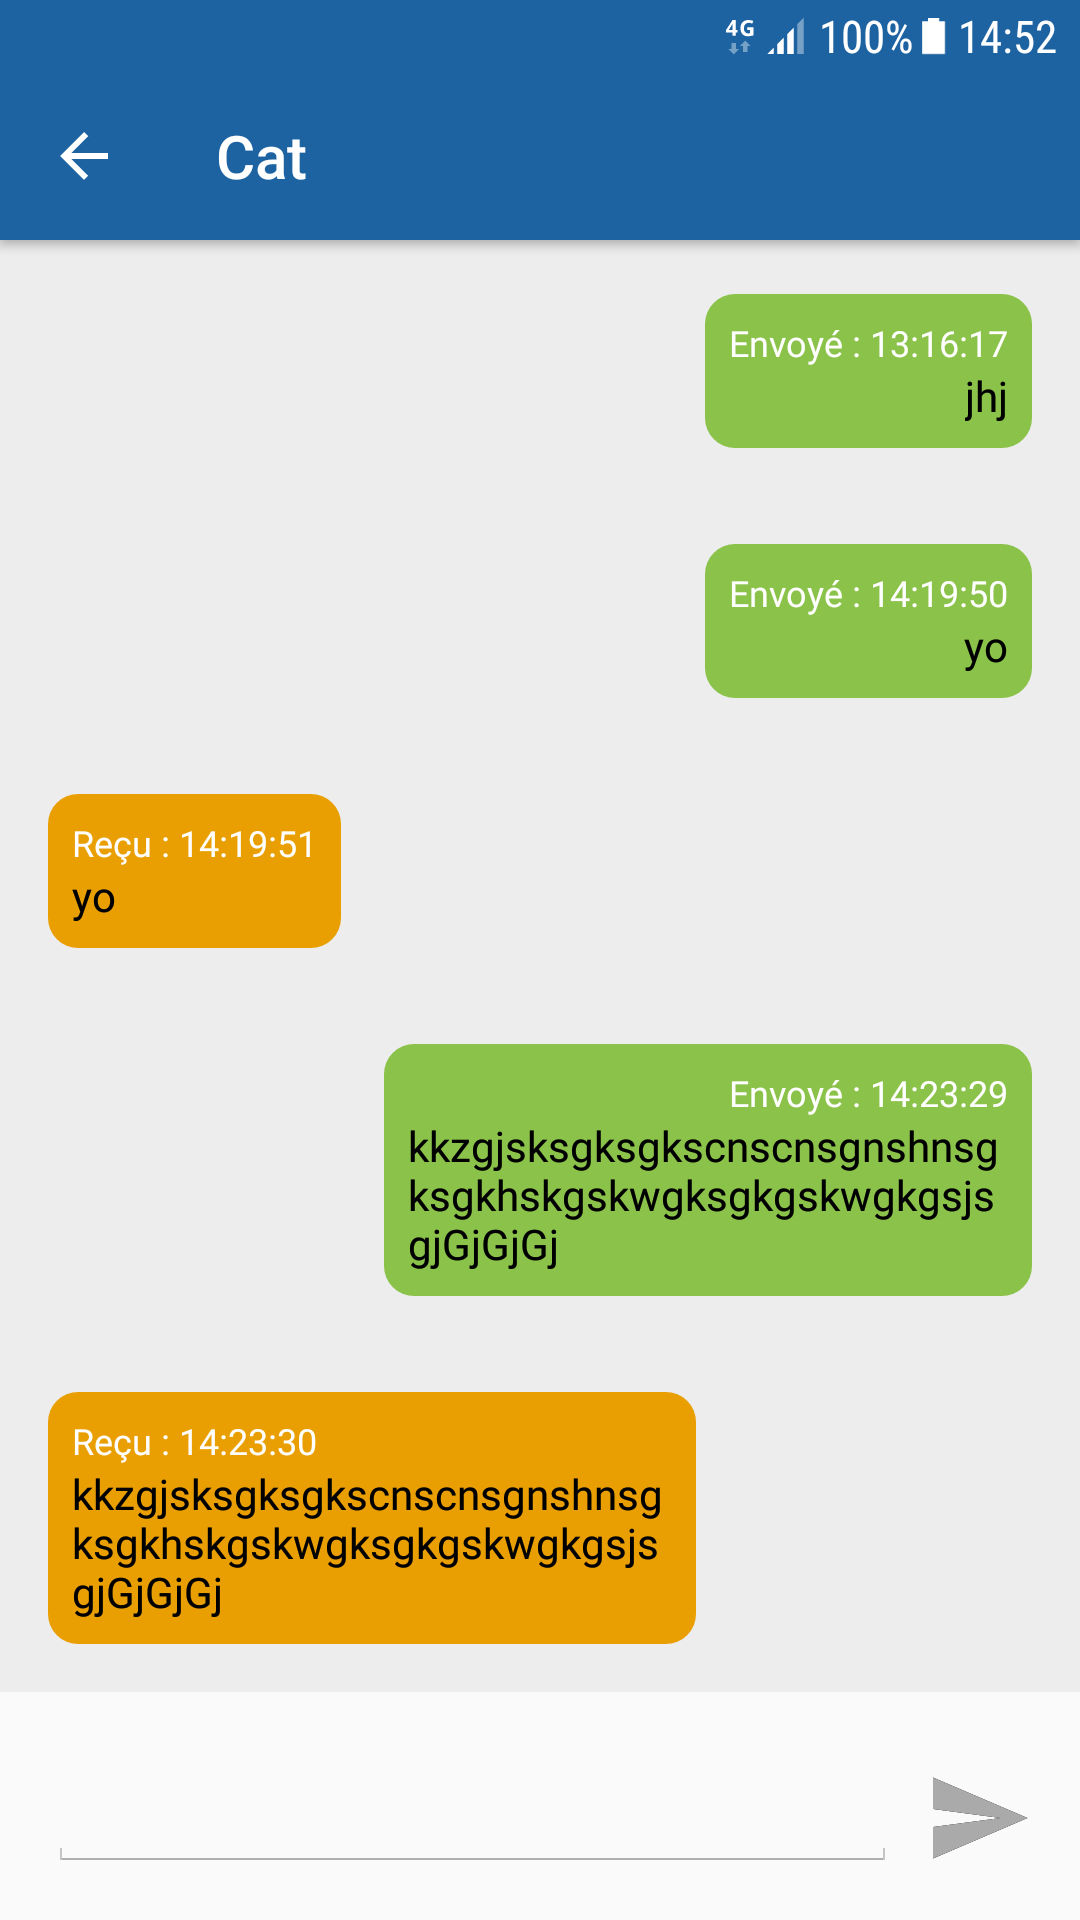
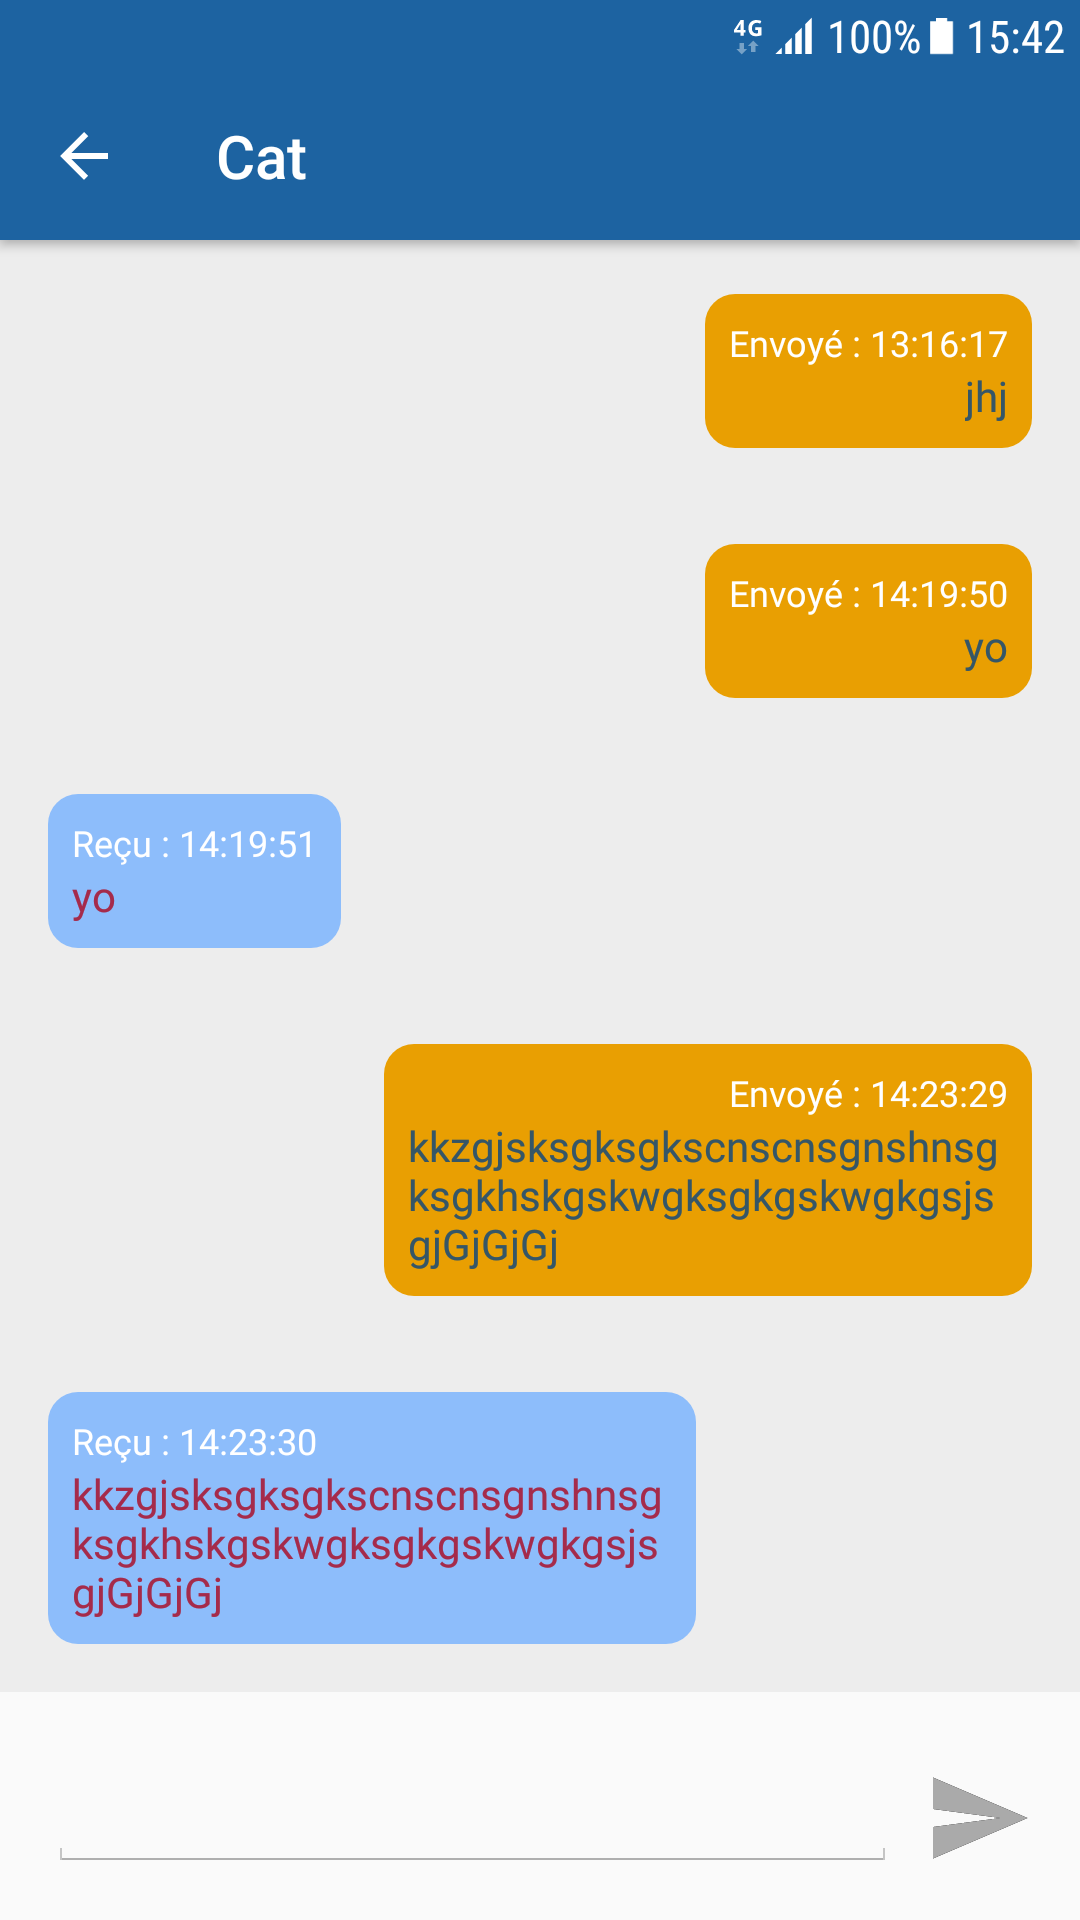
Cleaning

diff --git a/app/src/main/java/com/example/hivian/ft_hangouts/CustomSmsAdapter.java b/app/src/main/java/com/example/hivian/ft_hangouts/CustomSmsAdapter.java
@@ -1,10 +1,8 @@
 package com.example.hivian.ft_hangouts;
 
 import android.content.Context;
-import android.graphics.Color;
-import android.graphics.drawable.ColorDrawable;
-import android.graphics.drawable.Drawable;
 import android.graphics.drawable.GradientDrawable;
+import android.support.v4.content.ContextCompat;
 import android.view.Gravity;
 import android.view.LayoutInflater;
 import android.view.View;
@@ -67,17 +65,18 @@ public class CustomSmsAdapter extends BaseAdapter {
                 TableRow.LayoutParams.WRAP_CONTENT, TableRow.LayoutParams.MATCH_PARENT);
 
         text2.setText(data.get(position).get(1));
-        if (Integer.valueOf(data.get(position).get(2)) == SmsContent.SENT) {
+        if (Integer.valueOf(data.get(position).get(2)).equals(SmsContent.SENT)) {
             params1.gravity = Gravity.END;
             params2.gravity = Gravity.END;
             layout.setLayoutParams(params1);
             layout.setBackgroundResource(R.drawable.corner_sms);
             gradientDrawable = (GradientDrawable)layout.getBackground();
-            gradientDrawable.setColor(parent.getResources().getColor(R.color.colorGreen));
+            gradientDrawable.setColor(ContextCompat.getColor(context, R.color.colorOrange));
             layout.setBackground(gradientDrawable);
             layout.setGravity(Gravity.END);
             text1.setLayoutParams(params2);
             text2.setLayoutParams(params2);
+            text2.setTextColor(ContextCompat.getColor(context, R.color.colorDarkBlue));
             text1.setText(parent.getResources().getString(R.string.header_sending_sms)
                     + " " + data.get(position).get(0));
         } else {
@@ -86,10 +85,11 @@ public class CustomSmsAdapter extends BaseAdapter {
             layout.setLayoutParams(params1);
             layout.setBackgroundResource(R.drawable.corner_sms);
             gradientDrawable = (GradientDrawable)layout.getBackground();
-            gradientDrawable.setColor(parent.getResources().getColor(R.color.colorOrange));
+            gradientDrawable.setColor(ContextCompat.getColor(context, R.color.colorLightBlue));
             layout.setBackground(gradientDrawable);
             text1.setLayoutParams(params2);
             text2.setLayoutParams(params2);
+            text2.setTextColor(ContextCompat.getColor(context, R.color.colorRed));
             text1.setText(parent.getResources().getString(R.string.header_received_sms)
                     + " " + data.get(position).get(0));
         }

diff --git a/app/src/main/java/com/example/hivian/ft_hangouts/ContactEdition.java b/app/src/main/java/com/example/hivian/ft_hangouts/ContactEdition.java
@@ -1,37 +1,24 @@
 package com.example.hivian.ft_hangouts;
 
 import android.Manifest;
-import android.app.Activity;
-import android.content.Context;
 import android.content.Intent;
-import android.content.pm.ActivityInfo;
 import android.content.pm.PackageManager;
 import android.database.Cursor;
 import android.graphics.Bitmap;
 import android.graphics.drawable.BitmapDrawable;
-import android.graphics.drawable.ColorDrawable;
 import android.net.Uri;
 import android.provider.MediaStore;
-import android.support.design.widget.Snackbar;
 import android.support.v4.content.ContextCompat;
 import android.support.v7.app.AppCompatActivity;
 import android.os.Bundle;
 import android.text.Html;
-import android.util.Log;
 import android.view.Menu;
 import android.view.MenuInflater;
 import android.view.MenuItem;
 import android.view.View;
-import android.view.ViewGroup;
-import android.view.inputmethod.InputMethodManager;
-import android.widget.Button;
-import android.widget.FrameLayout;
 import android.widget.ImageView;
 import android.widget.TextView;
 import android.widget.Toast;
-
-import java.text.SimpleDateFormat;
-import java.util.Date;
 
 
 public class ContactEdition extends AppCompatActivity {

diff --git a/app/src/main/java/com/example/hivian/ft_hangouts/ContactCreation.java b/app/src/main/java/com/example/hivian/ft_hangouts/ContactCreation.java
@@ -1,19 +1,12 @@
 package com.example.hivian.ft_hangouts;
 
 import android.Manifest;
-import android.app.ActivityManager;
-import android.content.ComponentName;
-import android.content.Context;
 import android.content.pm.PackageManager;
-import android.content.res.ColorStateList;
 import android.database.Cursor;
 import android.graphics.Bitmap;
-import android.graphics.BitmapFactory;
 import android.graphics.drawable.BitmapDrawable;
-import android.graphics.drawable.ColorDrawable;
 import android.net.Uri;
 import android.provider.MediaStore;
-import android.support.design.widget.Snackbar;
 import android.support.v4.content.ContextCompat;
 import android.support.v7.app.AppCompatActivity;
 import android.os.Bundle;
@@ -24,14 +17,9 @@ import android.view.Menu;
 import android.view.MenuInflater;
 import android.view.MenuItem;
 import android.view.View;
-import android.view.inputmethod.InputMethodManager;
-import android.widget.Button;
 import android.widget.EditText;
 import android.widget.ImageView;
 import android.widget.Toast;
-import java.text.SimpleDateFormat;
-import java.util.Date;
-import java.util.List;
 
 import static com.example.hivian.ft_hangouts.DbBitmapUtility.getBytes;
 

diff --git a/app/src/main/java/com/example/hivian/ft_hangouts/ContactSms.java b/app/src/main/java/com/example/hivian/ft_hangouts/ContactSms.java
@@ -1,6 +1,5 @@
 package com.example.hivian.ft_hangouts;
 
-import android.Manifest;
 import android.app.Activity;
 import android.app.PendingIntent;
 import android.content.BroadcastReceiver;
@@ -8,10 +7,7 @@ import android.content.Context;
 import android.content.Intent;
 import android.content.IntentFilter;
 import android.graphics.PorterDuff;
-import android.graphics.drawable.ColorDrawable;
 import android.os.PowerManager;
-import android.support.design.widget.Snackbar;
-import android.support.v4.app.ActivityCompat;
 import android.support.v7.app.AppCompatActivity;
 import android.os.Bundle;
 import android.telephony.SmsManager;
@@ -20,7 +16,6 @@ import android.text.Html;
 import android.text.TextWatcher;
 import android.view.MenuItem;
 import android.view.View;
-import android.view.ViewGroup;
 import android.widget.EditText;
 import android.widget.ImageButton;
 import android.widget.ListView;

diff --git a/app/src/main/java/com/example/hivian/ft_hangouts/CustomAdapter.java b/app/src/main/java/com/example/hivian/ft_hangouts/CustomAdapter.java
@@ -3,8 +3,6 @@ package com.example.hivian.ft_hangouts;
 import android.content.Context;
 import android.content.res.Resources;
 import android.graphics.Bitmap;
-import android.support.v4.graphics.drawable.RoundedBitmapDrawable;
-import android.support.v4.graphics.drawable.RoundedBitmapDrawableFactory;
 import android.view.LayoutInflater;
 import android.view.View;
 import android.view.ViewGroup;

diff --git a/app/src/main/java/com/example/hivian/ft_hangouts/MainActivity.java b/app/src/main/java/com/example/hivian/ft_hangouts/MainActivity.java
@@ -12,8 +12,6 @@ import android.text.Html;
 import android.view.View;
 import android.view.Menu;
 import android.content.Intent;
-import android.view.Window;
-import android.view.WindowManager;
 import android.widget.AdapterView;
 import android.widget.ListView;
 import android.widget.TextView;

diff --git a/app/src/main/java/com/example/hivian/ft_hangouts/DBHandler.java b/app/src/main/java/com/example/hivian/ft_hangouts/DBHandler.java
@@ -5,7 +5,6 @@ import android.database.Cursor;
 import android.database.sqlite.SQLiteOpenHelper;
 import android.content.Context;
 import android.database.sqlite.SQLiteDatabase;
-import android.util.Log;
 
 import java.util.ArrayList;
 import java.util.List;
